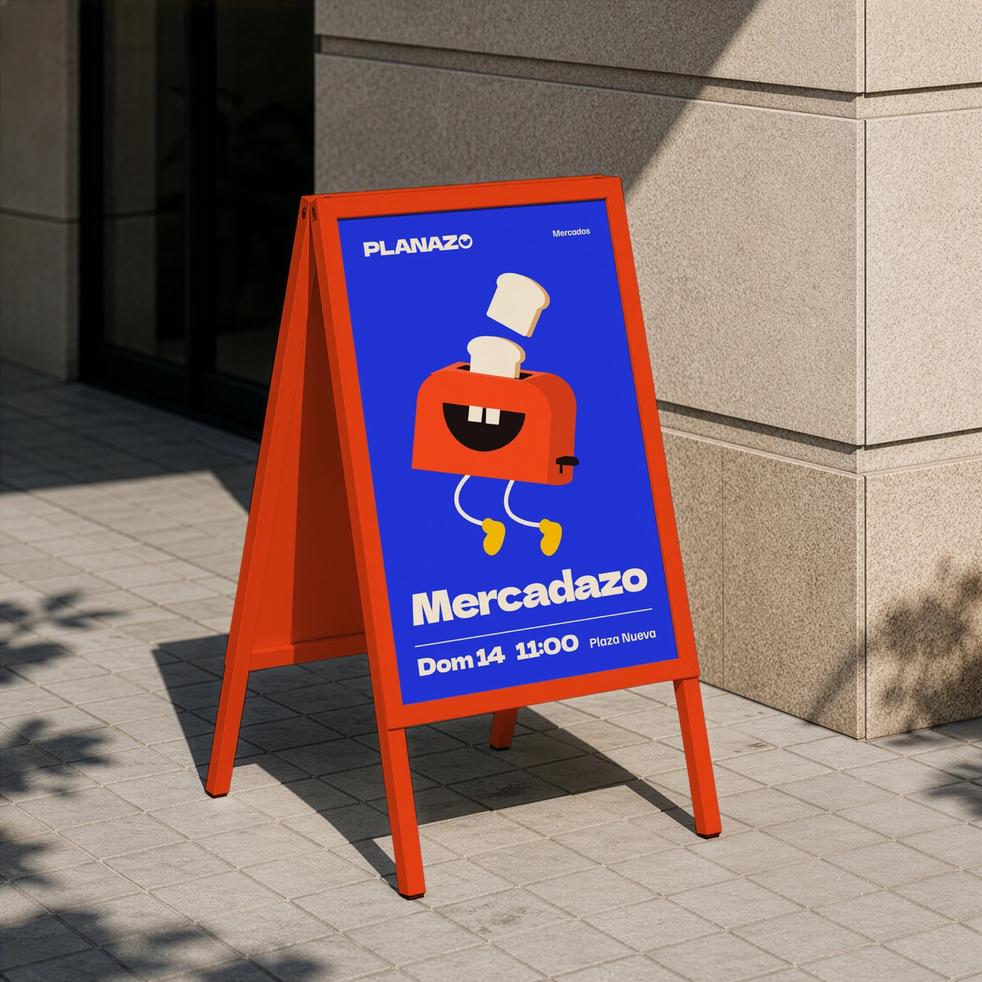
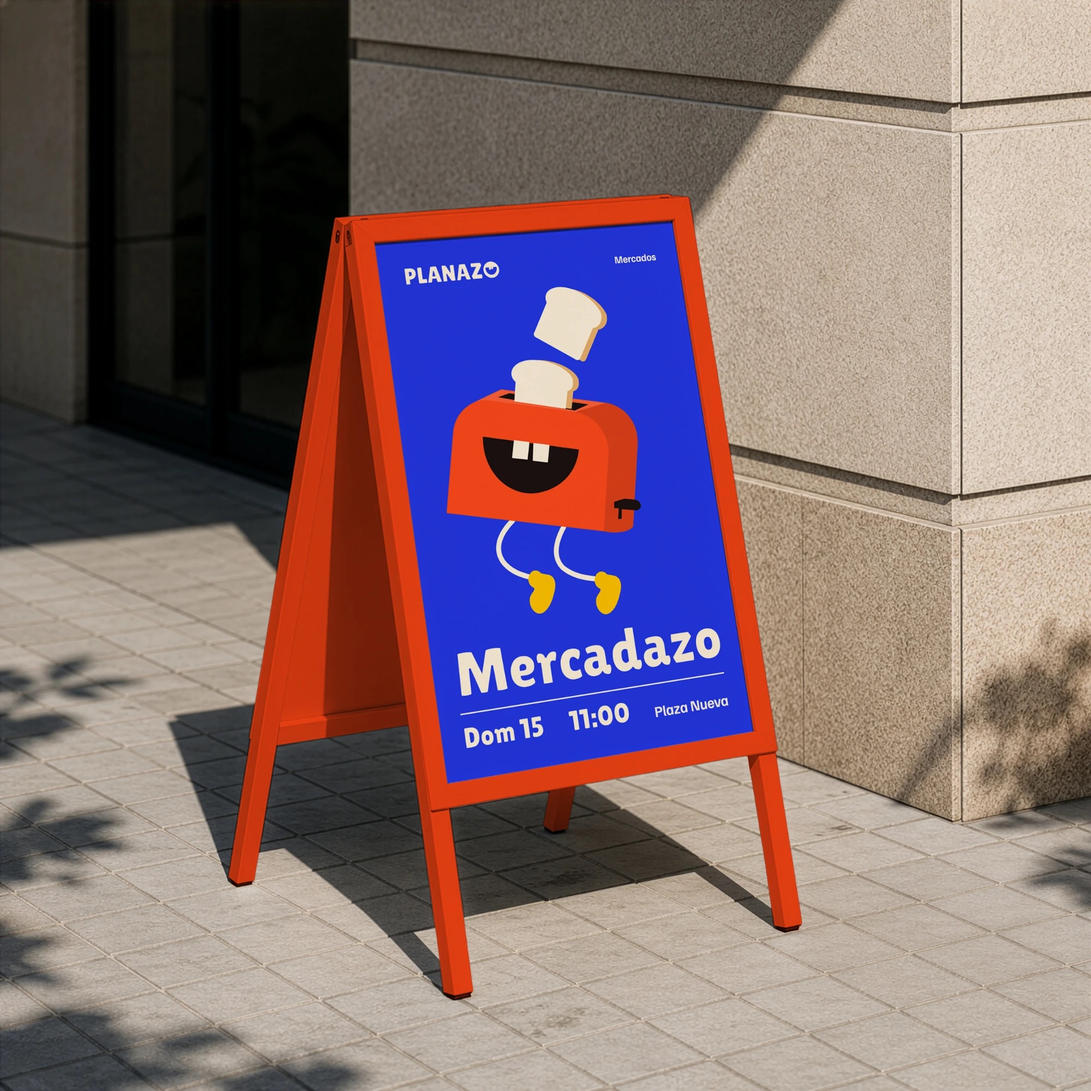
PLANAZO: mockup del caballete del Mercadazo con el cartel en Lilita

Changed region(s): [[0.4044, 0.2489, 0.6844, 0.6844], [0.3733, 0.2178, 0.4978, 0.28], [0.56, 0.2178, 0.5911, 0.2489]]

diff --git a/planazo/index.html b/planazo/index.html
@@ -312,7 +312,7 @@
         <div class="pl-row pl-tag"><b>Aplicaciones</b></div>
         <div class="pl-row">
           <div class="pl-apps"><!-- grid: caballete grande, merch a la derecha y fila de abajo -->
-            <img class="e" src="mockups/caballete-mercadazo.jpg" width="1800" height="1800" alt="Caballete azul en la acera anunciando el Mercadazo con la Tostadora" loading="lazy" />
+            <img class="e" src="mockups/caballete-mercadazo.jpg" width="2000" height="2000" alt="Caballete rojo en la acera con el cartel azul del Mercadazo y la Tostadora" loading="lazy" />
             <img class="b" src="mockups/calcetines.jpg" width="1090" height="1200" alt="Calcetines azules con la Tostadora bordada y su cartón amarillo" loading="lazy" />
             <img class="d" src="mockups/pin.jpg" width="1090" height="1200" alt="Pin esmaltado de la Tostadora en la solapa de una chaqueta vaquera" loading="lazy" />
             <img class="g" src="mockups/llavero.jpg" width="1090" height="1200" alt="Llavero de goma del Sofá con unas llaves sobre fondo rosa" loading="lazy" />
